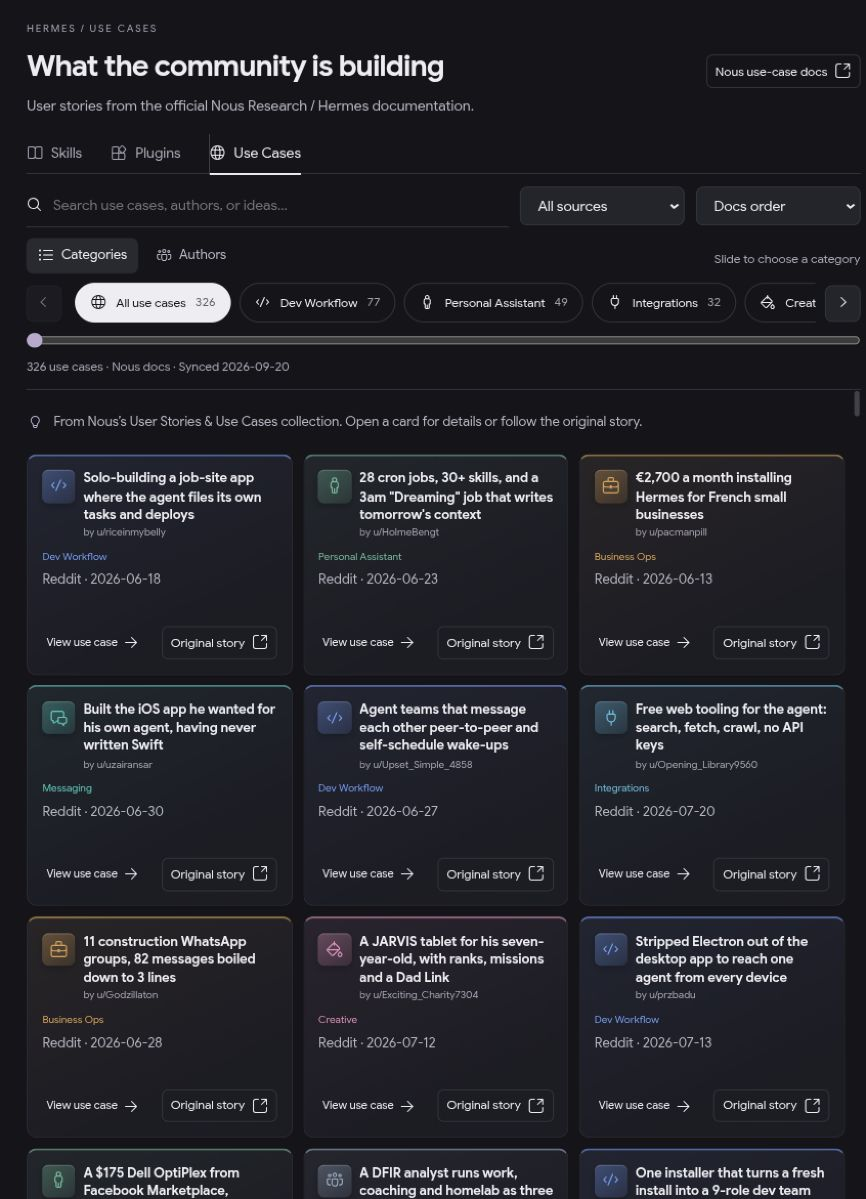
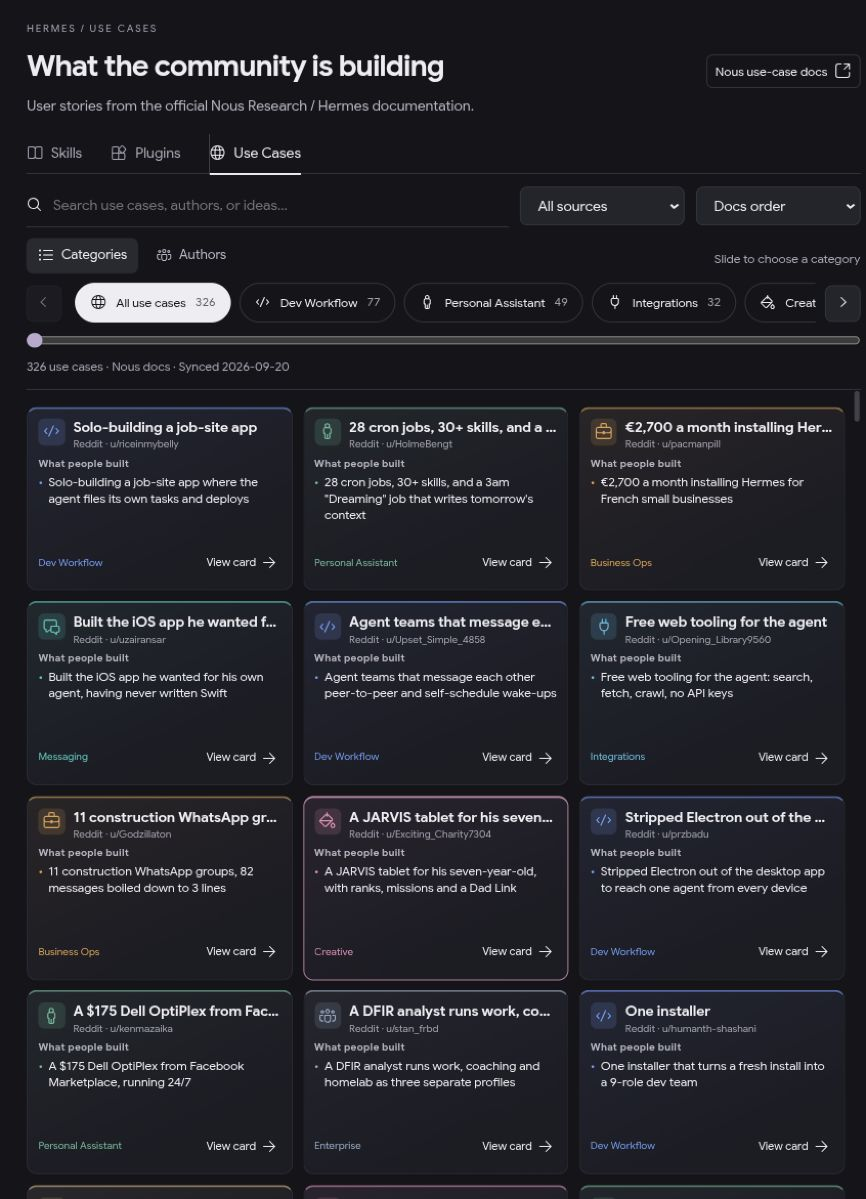
Align Nous use cases with compact Skills and Plugins cards

Changed region(s): [[0.0312, 0.3394, 0.9665, 1.0]]

diff --git a/desktop/plugin.js b/desktop/plugin.js
@@ -102,10 +102,8 @@ const css = `
 .hsl .project-link:focus-visible,.hsl-dialog .project-link:focus-visible{outline:2px solid var(--ui-accent,#b8aacd);outline-offset:3px}
 .hsl .community-sort{width:160px}.hsl .community-summary{display:flex;align-items:center;justify-content:space-between;gap:8px;flex-wrap:wrap}.hsl .community-summary button{padding:4px 8px;font-size:12px}
 .hsl .community-intro{display:flex;align-items:center;gap:10px;margin-bottom:16px;color:var(--ui-accent,#b8aacd)}.hsl .community-intro p{font-size:13px}
-.hsl .community-grid{grid-template-columns:repeat(auto-fill,minmax(min(100%,240px),1fr))}
-.hsl .community-card{height:216px;padding:14px;transition:transform .15s,border-color .15s}.hsl .community-card:hover{transform:translateY(-2px)}
-.hsl .community-card .name{display:-webkit-box;-webkit-line-clamp:3;-webkit-box-orient:vertical;white-space:normal;line-height:1.35;font-size:13px}.hsl .community-card .item-icon{width:32px;height:32px;box-shadow:inset 0 1px 0 #ffffff30,0 3px 6px #0003;background:linear-gradient(145deg,color-mix(in srgb,var(--icon-color) 35%,transparent),color-mix(in srgb,var(--icon-color) 12%,transparent))}
-.hsl .project-category{font-size:10px;color:var(--card-accent);margin-top:10px}.hsl .project-description{font-size:13px;line-height:1.45;margin:5px 0 8px;display:-webkit-box;-webkit-line-clamp:2;-webkit-box-orient:vertical;overflow:hidden}
+.hsl .community-card .summary-text{-webkit-line-clamp:3}
+.hsl .community-card .foot .badge{white-space:nowrap;overflow:hidden;text-overflow:ellipsis;color:var(--card-accent)}
 .hsl .community-bottom{display:flex;gap:12px;align-items:center;justify-content:space-between;flex-wrap:wrap;margin-top:20px}.hsl .community-bottom p{font-size:12px;max-width:640px}.community-detail li{margin-bottom:10px}.community-detail .detail-actions .project-link{background:var(--ui-bg-quaternary,#24242b)}
 @media(prefers-reduced-motion:reduce){.hsl .community-card{transition:none}.hsl .community-card:hover{transform:none}}
 @container(max-width:540px){.hsl .community-sort{width:100%}.hsl.community .top>.project-link{font-size:11px}.hsl .sections{gap:22px}.hsl .community-intro{margin-bottom:10px}}
@@ -6542,6 +6540,11 @@ function ProjectLink({ ctx, url, children, className = "" }) {
         h(DialogDescription, null, "Desktop could not open your browser. Copy this address to open the project:"),
         h("pre", null, url), h("button", { onClick: () => setError("") }, "Close"))));
 }
+function storyCardTitle(headline) {
+  // Use the leading clause as a compact label; the full upstream headline stays in the bullet and dialog.
+  const clause = headline.split(/: | — | – | where | that | so /)[0].trim();
+  return clause.length >= 12 ? clause : headline;
+}
 function Community({ ctx, onSection }) {
   const data = COMMUNITY_DIRECTORY;
   const [query, setQuery] = useState(""), [category, setCategory] = useState("all"), [author, setAuthor] = useState("");
@@ -6581,14 +6584,18 @@ function Community({ ctx, onSection }) {
         (query || author || category !== "all" || storySource) && h("button", { onClick: clear }, "Clear filters"))),
     h("div", { className: "library-results", ref: results, tabIndex: 0, role: "region", "aria-label": "Use cases" },
       h(React.Fragment, null,
-        h("div", { className: "community-intro" }, icon("lightbulb"), h("p", null, "From Nous’s User Stories & Use Cases collection. Open a card for details or follow the original story.")),
         shown.length ? h("div", { className: "grid community-grid" }, shown.map(p => h("article", { key: p.id, className: "card community-card", "aria-label": p.name, style: { "--card-accent": p.color, "--icon-color": p.color } },
           h("div", { className: "card-head" }, h("span", { className: "item-icon", "aria-hidden": true }, icon(p.icon)),
-            h("div", { className: "card-heading" }, h("h3", { className: "name", title: p.name }, p.name), h("div", { className: "source", title: p.author }, "by " + p.author))),
-          h("div", { className: "project-category" }, COMMUNITY_CATEGORIES.find(c => c.id === p.category)?.label),
-          h("p", { className: "project-description" }, p.description),
-          h("div", { className: "foot" }, h("button", { onClick: () => setSelected(p), "aria-label": "Explore " + p.name }, "View use case", icon("arrow-right")),
-            h(ProjectLink, { ctx, url: p.url }, "Original story"))))) : h("div", { className: "empty" }, h("p", null, "No matching use cases. Try another author, category, source, or search."), h("button", { onClick: clear }, "Reset browsing")),
+            h("div", { className: "card-heading" }, h("h3", { className: "name", title: p.name }, storyCardTitle(p.name)), h("div", { className: "source", title: `${p.source} · ${p.author}` }, `${p.source} · ${shortAuthor(p.author)}`))),
+          h("div", { className: "card-summary" },
+            h("div", { className: "summary-label" }, "What people built"),
+            h("div", { className: "summary-points", role: "list", "aria-label": "What people built" },
+              h("div", { className: "summary-point", role: "listitem" },
+                h("span", { className: "summary-dot", "aria-hidden": true }, "•"),
+                h("span", { className: "summary-text", title: p.name }, p.name)))),
+          h("div", { className: "foot" },
+            h("span", { className: "badge", title: COMMUNITY_CATEGORIES.find(c => c.id === p.category)?.label }, COMMUNITY_CATEGORIES.find(c => c.id === p.category)?.label),
+            h("button", { onClick: () => setSelected(p), "aria-label": "View card: " + p.name }, "View card", icon("arrow-right")))))) : h("div", { className: "empty" }, h("p", null, "No matching use cases. Try another author, category, source, or search."), h("button", { onClick: clear }, "Reset browsing")),
         h("div", { className: "community-bottom" }, h("p", { className: "muted" }, "A bundled snapshot of the official docs. Stories describe users’ experiences; inclusion is not independent verification or endorsement."),
           h(ProjectLink, { ctx, url: data.source_url }, "Browse Nous docs")))),
     h(Dialog, { open: !!selected, onOpenChange: open => { if (!open) setSelected(null); } },

diff --git a/README.md b/README.md
@@ -51,7 +51,7 @@ Cards use author metadata exactly as supplied. Short labels are presentation onl
 
 ## Use cases from the Nous docs
 
-Open **Use Cases** beside Skills and Plugins to browse [Nous Research’s official User Stories & Use Cases collection](https://hermes-agent.nousresearch.com/docs/user-stories). This snapshot contains 326 stories across 15 categories. Search by headline or author, filter by source, switch Categories / Authors, or sort A–Z. **View use case** opens details; **Original story** opens the post linked by Nous; **Nous use-case docs** opens the official collection.
+Open **Use Cases** beside Skills and Plugins to browse [Nous Research’s official User Stories & Use Cases collection](https://hermes-agent.nousresearch.com/docs/user-stories). This snapshot contains 326 stories across 15 categories, arranged in the same compact 180px flashcards as Skills and Plugins, with colorful category icons and a brief “What people built” bullet. Search by headline or author, filter by source, switch Categories / Authors, or sort A–Z. **View card** opens the full headline, author and source details; **Read original story** in that dialog opens the post linked by Nous; **Nous use-case docs** opens the official collection.
 
 ![Use cases from the Nous docs](docs/community.png)
 

diff --git a/docs/AUDIT.md b/docs/AUDIT.md
@@ -69,3 +69,7 @@ A Desktop-only blank Community report exposed an unnecessary dependency on a new
 ## 0.5.0 Official documentation source
 
 Replaced the independent seven-project collection with 326 entries from Nous Research’s official User Stories & Use Cases dataset at revision `299c652a66bcc915a2a1e10cd2b648f196ec4bba`. Preserved the upstream story titles, author credits, 15 categories, source platforms and original links. Added a source filter and explicit docs links; removed repository-owner and GitHub-only assumptions. Third-party post quotations are omitted. The collection remains bundled for immediate Desktop rendering. Source metadata is attributed under the upstream MIT notice.
+
+### Compact Use Cases layout
+
+Use Cases now shares Skills and Plugins card geometry: 180px height, 200px minimum grid columns, 26px icons, brief bullet content and an aligned View card footer. Category and shortened author attribution remain visible; full headlines and original-story/docs links remain in the detail dialog. Browser preview checks at its normal viewport and 390×844 found no horizontal overflow or summary/footer overlap across all 326 cards. The backend-independent rendering regression and JavaScript checks passed. Native Desktop rendering still requires reopening the installed plugin.
